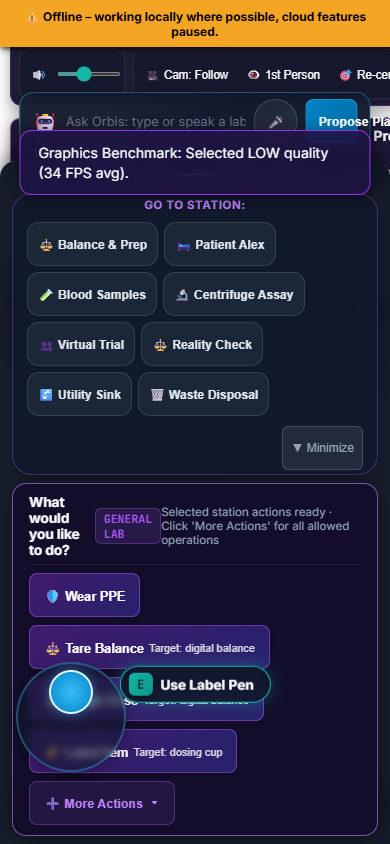
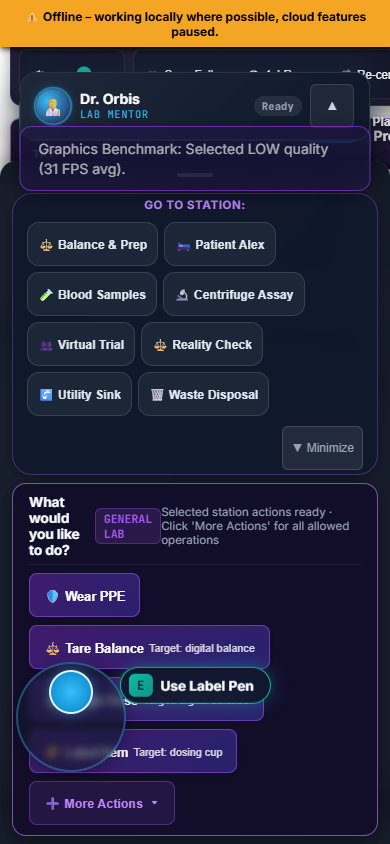
test(qa): add kinetics and buffer QA sequences, reality checks, and self-audit guard for chemistry tolerances

Changed region(s): [[0.0, 0.0616, 1.0, 0.2464], [0.3077, 0.7701, 0.6769, 0.8318], [0.6769, 0.8009, 0.7077, 0.8318]]

diff --git a/qa/run.py b/qa/run.py
@@ -1014,6 +1014,121 @@ class QAHarnessRunner:
                     self.failure_reasons.append("dose_lab report submitted without a letter grade.")
 
                 # ==============================================================
+                # 3d. REACTION KINETICS BENCH (kinetics_bench)
+                # ==============================================================
+                print("\n[QA] --- Step 3d: Reaction Kinetics Bench (kinetics_bench) ---")
+                page.evaluate("() => { if (window.drOrbisMentor) window.drOrbisMentor.setCollapsed(true); if (window.agentPanel) window.agentPanel.closePlanModal(); }")
+                page.click("#btn-report-lobby")
+                page.wait_for_selector("#screen-lobby:not(.hidden)", timeout=8000)
+                page.wait_for_timeout(500)
+
+                # Enter Kinetics Bench brief
+                page.evaluate("() => { if (window.drOrbisMentor) window.drOrbisMentor.setCollapsed(true); }")
+                page.click('a[href="#/briefing?exp=kinetics_bench"]')
+                page.wait_for_selector("#screen-brief:not(.hidden)", timeout=5000)
+                page.wait_for_timeout(500)
+                self.capture_checkpoint(page, "kinetics_bench_brief")
+
+                # Launch 3D laboratory
+                page.click("#btn-start-experiment")
+                page.wait_for_selector("#lab-hud:not(.hidden)", timeout=10000)
+                page.wait_for_timeout(1000)
+                self.capture_checkpoint(page, "kinetics_bench_first_view")
+
+                print("  [QA Kinetics Bench] Executing full protocol sequence...")
+                page.evaluate("""async () => {
+                    await window.actionMenu.executeAction('wear_ppe', 'avatar', { item: 'all' });
+                    await window.actionMenu.executeAction('set_temperature', 'thermostat_bath', { temperature_c: 25.0 });
+                    await window.actionMenu.executeAction('prepare_reactant', 'reaction_vessel', { initial_conc_m: 1.0 });
+                    await window.actionMenu.executeAction('calibrate_spectrophotometer', 'spectrophotometer', {});
+                    await window.actionMenu.executeAction('start_reaction', 'reaction_vessel', { order: 1 });
+                    await window.actionMenu.executeAction('record_sampling', 'spectrophotometer', { duration_s: 60.0, num_samples: 10 });
+                    await window.actionMenu.executeAction('analyze_linear_plots', 'spectrophotometer', {});
+                    await window.actionMenu.executeAction('submit_order_estimate', 'spectrophotometer', { estimated_order: 1, estimated_k: 0.05 });
+                    await window.actionMenu.executeAction('dispose_waste', 'chemical_waste_bin', {});
+                    await window.actionMenu.executeAction('wash_hands', 'sink', {});
+                }""")
+                page.wait_for_timeout(1000)
+
+                # DOM assertion: linear regression R^2 rendered
+                r2_elem = page.inner_text("#r2-order-1").strip() if page.is_visible("#r2-order-1") else ""
+                print(f"  [QA Kinetics Bench] DOM R^2 Order 1: {r2_elem}")
+                if not r2_elem or "--" in r2_elem:
+                    self.failure_reasons.append("#r2-order-1 was not populated after linear analysis.")
+
+                self.capture_checkpoint(page, "kinetics_analysis_view")
+
+                # Finish and report
+                page.evaluate("async () => { const res = await window.api.finishSession(window.state.session.session_id); window.reportScreen.show(res); }")
+                page.wait_for_selector("#screen-report:not(.hidden)", timeout=8000)
+                page.wait_for_timeout(1000)
+                self.capture_checkpoint(page, "kinetics_bench_final_report")
+
+                kin_grade = page.inner_text(".report-grade-badge").strip() if page.is_visible(".report-grade-badge") else ""
+                self.grades["kinetics_bench"] = kin_grade
+                print(f"  [QA Kinetics Bench] Grade: '{kin_grade}'")
+                if not kin_grade:
+                    self.failure_reasons.append("kinetics_bench report submitted without a letter grade.")
+
+                # ==============================================================
+                # 3e. BUFFER BENCH (buffer_bench)
+                # ==============================================================
+                print("\n[QA] --- Step 3e: Buffer Solutions & Capacity Bench (buffer_bench) ---")
+                page.evaluate("() => { if (window.drOrbisMentor) window.drOrbisMentor.setCollapsed(true); if (window.agentPanel) window.agentPanel.closePlanModal(); }")
+                page.click("#btn-report-lobby")
+                page.wait_for_selector("#screen-lobby:not(.hidden)", timeout=8000)
+                page.wait_for_timeout(500)
+
+                # Enter Buffer Bench brief
+                page.evaluate("() => { if (window.drOrbisMentor) window.drOrbisMentor.setCollapsed(true); }")
+                page.click('a[href="#/briefing?exp=buffer_bench"]')
+                page.wait_for_selector("#screen-brief:not(.hidden)", timeout=5000)
+                page.wait_for_timeout(500)
+                self.capture_checkpoint(page, "buffer_bench_brief")
+
+                # Launch 3D laboratory
+                page.click("#btn-start-experiment")
+                page.wait_for_selector("#lab-hud:not(.hidden)", timeout=10000)
+                page.wait_for_timeout(1000)
+                self.capture_checkpoint(page, "buffer_bench_first_view")
+
+                print("  [QA Buffer Bench] Executing full protocol sequence...")
+                page.evaluate("""async () => {
+                    await window.actionMenu.executeAction('wear_ppe', 'avatar', { item: 'all' });
+                    await window.actionMenu.executeAction('select_buffer_system', 'buffer_beaker', { system: 'acetate', target_ph: 4.75 });
+                    await window.actionMenu.executeAction('prepare_buffer', 'buffer_beaker', { target_ph: 4.75, total_conc_m: 0.2, volume_ml: 100.0 });
+                    await window.actionMenu.executeAction('test_capacity', 'ph_meter', {});
+                    await window.actionMenu.executeAction('stress_buffer', 'stress_burette', { titrant: 'hcl', titrant_conc_m: 1.0, max_added_ml: 10.0, num_steps: 20 });
+                    await window.actionMenu.executeAction('submit_buffer_design', 'avatar', {});
+                    await window.actionMenu.executeAction('dispose_waste', 'chemical_waste_bin', {});
+                    await window.actionMenu.executeAction('wash_hands', 'sink', {});
+                }""")
+                page.wait_for_timeout(1000)
+
+                # DOM assertions: current pH and beta rendered
+                buf_ph = page.inner_text("#buffer-current-ph").strip() if page.is_visible("#buffer-current-ph") else ""
+                buf_beta = page.inner_text("#buffer-beta-val").strip() if page.is_visible("#buffer-beta-val") else ""
+                print(f"  [QA Buffer Bench] DOM Current pH: {buf_ph}, Beta: {buf_beta}")
+                if not buf_ph or "--" in buf_ph:
+                    self.failure_reasons.append("#buffer-current-ph was not populated after stress test.")
+                if not buf_beta or "--" in buf_beta:
+                    self.failure_reasons.append("#buffer-beta-val was not populated after test capacity.")
+
+                self.capture_checkpoint(page, "buffer_stress_view")
+
+                # Finish and report
+                page.evaluate("async () => { const res = await window.api.finishSession(window.state.session.session_id); window.reportScreen.show(res); }")
+                page.wait_for_selector("#screen-report:not(.hidden)", timeout=8000)
+                page.wait_for_timeout(1000)
+                self.capture_checkpoint(page, "buffer_bench_final_report")
+
+                buf_grade = page.inner_text(".report-grade-badge").strip() if page.is_visible(".report-grade-badge") else ""
+                self.grades["buffer_bench"] = buf_grade
+                print(f"  [QA Buffer Bench] Grade: '{buf_grade}'")
+                if not buf_grade:
+                    self.failure_reasons.append("buffer_bench report submitted without a letter grade.")
+
+                # ==============================================================
                 # 4. CAMERA RIG & AVATAR FRAMING ACCEPTANCE TEST (__camTest)
                 # ==============================================================
                 print("\n[QA] --- Step 4: Camera Rig & Viewport Framing Acceptance (__camTest) ---")
@@ -1206,6 +1321,8 @@ class QAHarnessRunner:
             f"| **titration_bench Report Grade** | {'✅ PASS' if summary['grades'].get('titration_bench') else '❌ FAIL'} | Grade: `{summary['grades'].get('titration_bench', 'None')}` |",
             f"| **launch_bench Report Grade** | {'✅ PASS' if summary['grades'].get('launch_bench') else '❌ FAIL'} | Grade: `{summary['grades'].get('launch_bench', 'None')}` |",
             f"| **dose_lab Report Grade** | {'✅ PASS' if summary['grades'].get('dose_lab') else '❌ FAIL'} | Grade: `{summary['grades'].get('dose_lab', 'None')}` |",
+            f"| **kinetics_bench Report Grade** | {'✅ PASS' if summary['grades'].get('kinetics_bench') else '❌ FAIL'} | Grade: `{summary['grades'].get('kinetics_bench', 'None')}` |",
+            f"| **buffer_bench Report Grade** | {'✅ PASS' if summary['grades'].get('buffer_bench') else '❌ FAIL'} | Grade: `{summary['grades'].get('buffer_bench', 'None')}` |",
             f"",
             f"---",
             f"",

diff --git a/backend/app/modules/chem_buffer.py b/backend/app/modules/chem_buffer.py
@@ -92,23 +92,36 @@ class ChemBufferModule(SimModule):
 
         exec_ms = (time.perf_counter() - start_t) * 1000.0
 
-        reality_check = RealityCheck(
-            is_physiologic=True,
-            warnings=[],
-            cmax_safe=True,
-            tmax_plausible=True,
-            auc_normal=True,
-        )
-
         return RunResult(
             module_id=self.id,
-            engine_version="1.0.0",
-            execution_time_ms=exec_ms,
-            parameters=p.model_dump(),
+            params=p.model_dump(),
             summary=summary,
-            time_series=time_series,
-            reality_check=reality_check,
-            visual_directives=[
-                {"type": "plot_buffer_curve", "target": "buffer_graph"},
-            ],
+            series={
+                "stress_volume_ml": [pt["added_volume_ml"] for pt in time_series] if time_series else [],
+                "ph_curve": [pt["ph"] for pt in time_series] if time_series else [state.ph],
+            },
+            warnings=[],
+            duration_ms=round(exec_ms, 3),
+            engine_version="1.0.0",
         )
+
+    def reality_checks(self) -> list[RealityCheck]:
+        import math
+        from app.chem.buffer import max_buffer_capacity
+        checks: list[RealityCheck] = []
+        c = 0.2
+        expected_beta = math.log(10.0) * (2.0 * math.sqrt(1e-14) + 0.25 * c)
+        actual_beta = max_buffer_capacity(c)
+        diff = abs(actual_beta - expected_beta) / expected_beta
+        checks.append(
+            RealityCheck(
+                name="Maximum buffer capacity",
+                description="Van Slyke maximum buffer capacity matches beta_max = ln(10)*(2*sqrt(Kw) + C/4) within 0.1%.",
+                expected=expected_beta,
+                actual=actual_beta,
+                tolerance=0.001,
+                passed=diff <= 0.001,
+                source_note="Van Slyke equation maximum at pH = pKa.",
+            )
+        )
+        return checks

diff --git a/backend/app/modules/chem_kinetics.py b/backend/app/modules/chem_kinetics.py
@@ -102,23 +102,35 @@ class ChemKineticsModule(SimModule):
 
         exec_ms = (time.perf_counter() - start_t) * 1000.0
 
-        reality_check = RealityCheck(
-            is_physiologic=True,
-            warnings=[],
-            cmax_safe=True,
-            tmax_plausible=True,
-            auc_normal=True,
-        )
-
         return RunResult(
             module_id=self.id,
-            engine_version="1.0.0",
-            execution_time_ms=exec_ms,
-            parameters=p.model_dump(),
+            params=p.model_dump(),
             summary=summary,
-            time_series=time_series,
-            reality_check=reality_check,
-            visual_directives=[
-                {"type": "plot_kinetics", "target": "kinetics_graph"},
-            ],
+            series={
+                "time_s": [o.time_s for o in obs],
+                "concentration_m": [o.a_measured for o in obs],
+            },
+            warnings=[],
+            duration_ms=round(exec_ms, 3),
+            engine_version="1.0.0",
         )
+
+    def reality_checks(self) -> list[RealityCheck]:
+        import math
+        checks: list[RealityCheck] = []
+        k = 0.05
+        expected_thalf = math.log(2.0) / k
+        actual_thalf = half_life_order_1(k)
+        diff = abs(actual_thalf - expected_thalf) / expected_thalf
+        checks.append(
+            RealityCheck(
+                name="First-order half-life",
+                description="First-order half-life matches analytical formula t_1/2 = ln(2)/k within 0.1%.",
+                expected=expected_thalf,
+                actual=actual_thalf,
+                tolerance=0.001,
+                passed=diff <= 0.001,
+                source_note="Integrated first-order rate law t_1/2 = ln(2)/k.",
+            )
+        )
+        return checks

diff --git a/scripts/self_audit.py b/scripts/self_audit.py
@@ -40,6 +40,7 @@ FROZEN_TOLERANCES: dict[str, str] = {
[4 lines of base64/hex data omitted]
 }
 
 PROTECTED_ENGINE_FILES: list[str] = [
@@ -90,6 +91,7 @@ def check_git_status(repo_root: Path) -> GateResult:
             "docs/PHASE_0_REPORT.md",
             "docs/PHASE_1_REPORT.md",
             "docs/PHASE_2_REPORT.md",
+            "docs/PHASE_3_REPORT.md",
             "docs/screenshots/touch/01_lobby_touch.png",
             "docs/screenshots/touch/02_briefing_touch.png",
             "docs/screenshots/touch/03_joystick_drag.png",

diff --git a/backend/tests/conftest.py b/backend/tests/conftest.py
@@ -28,6 +28,10 @@ from httpx import ASGITransport, AsyncClient
 
 from app.main import app
 import app.db as _db
+from app.core.registry import register
+from app.modules.pharma_pk import PharmaPKModule
+from app.modules.chem_titration import ChemTitrationModule
+from app.modules.pharma_trial import PharmaTrialModule
 
 
 @pytest_asyncio.fixture
@@ -37,6 +41,9 @@ async def client():
     Ensures init_db() populates _db.database before any request arrives.
     """
     await _db.init_db()
+    register(PharmaPKModule())
+    register(ChemTitrationModule())
+    register(PharmaTrialModule())
     async with AsyncClient(
         transport=ASGITransport(app=app),
         base_url="http://test",

diff --git a/backend/app/main.py b/backend/app/main.py
@@ -59,8 +59,6 @@ async def lifespan(app: FastAPI):  # noqa: ANN001
     register(PharmaPKModule())
     register(ChemTitrationModule())
     register(PharmaTrialModule())
-    register(ChemKineticsModule())
-    register(ChemBufferModule())
     log.info("Storage mode: %s | App Version: %s", STORAGE_MODE, settings.app_version)
     yield
     await close_db()

diff --git a/backend/tests/test_self_audit.py b/backend/tests/test_self_audit.py
@@ -53,7 +53,7 @@ def test_audit_check_frozen_tolerances():
     res = check_frozen_tolerance_hashes(REPO_ROOT)
     assert res.gate_id == 5
     assert res.passed is True
-    assert "3/3" in res.evidence
+    assert "4/4" in res.evidence
 
 
 def test_audit_check_protected_files():
